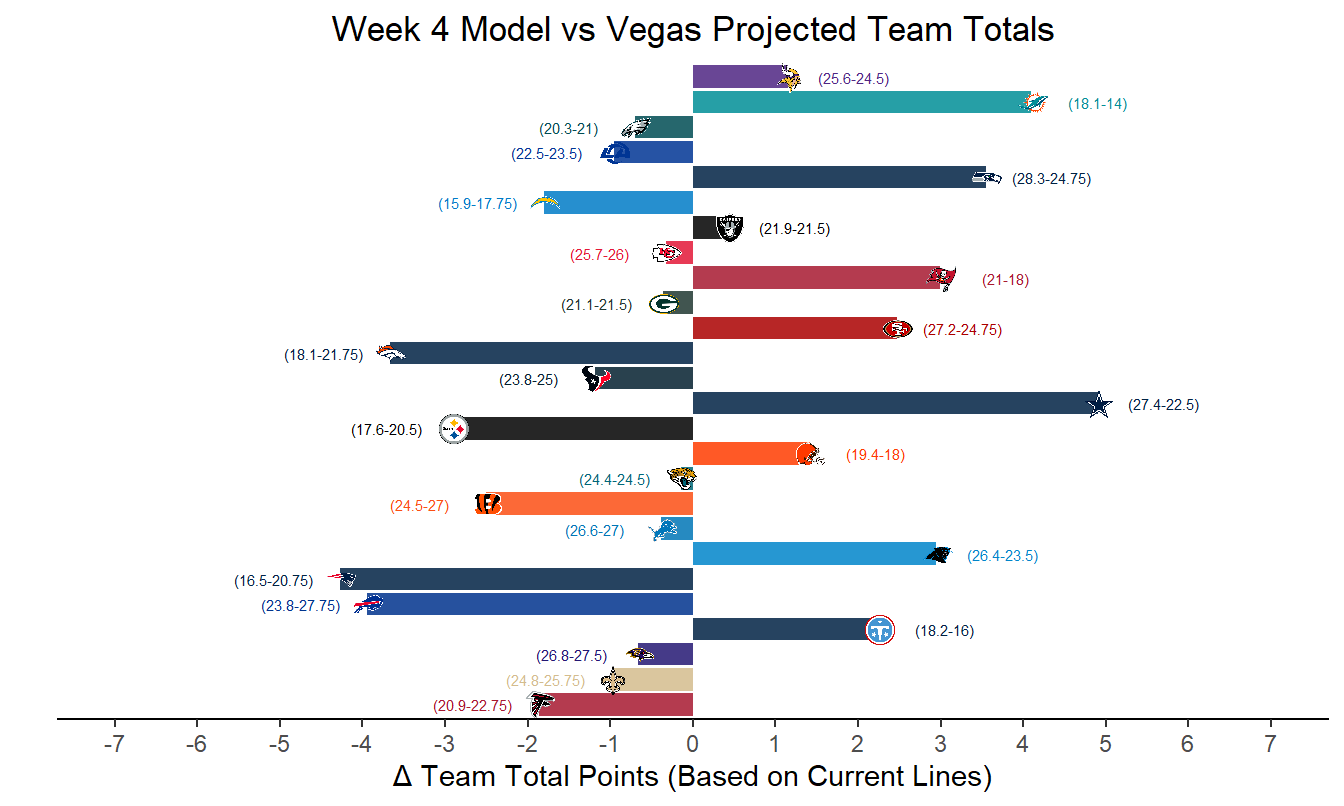
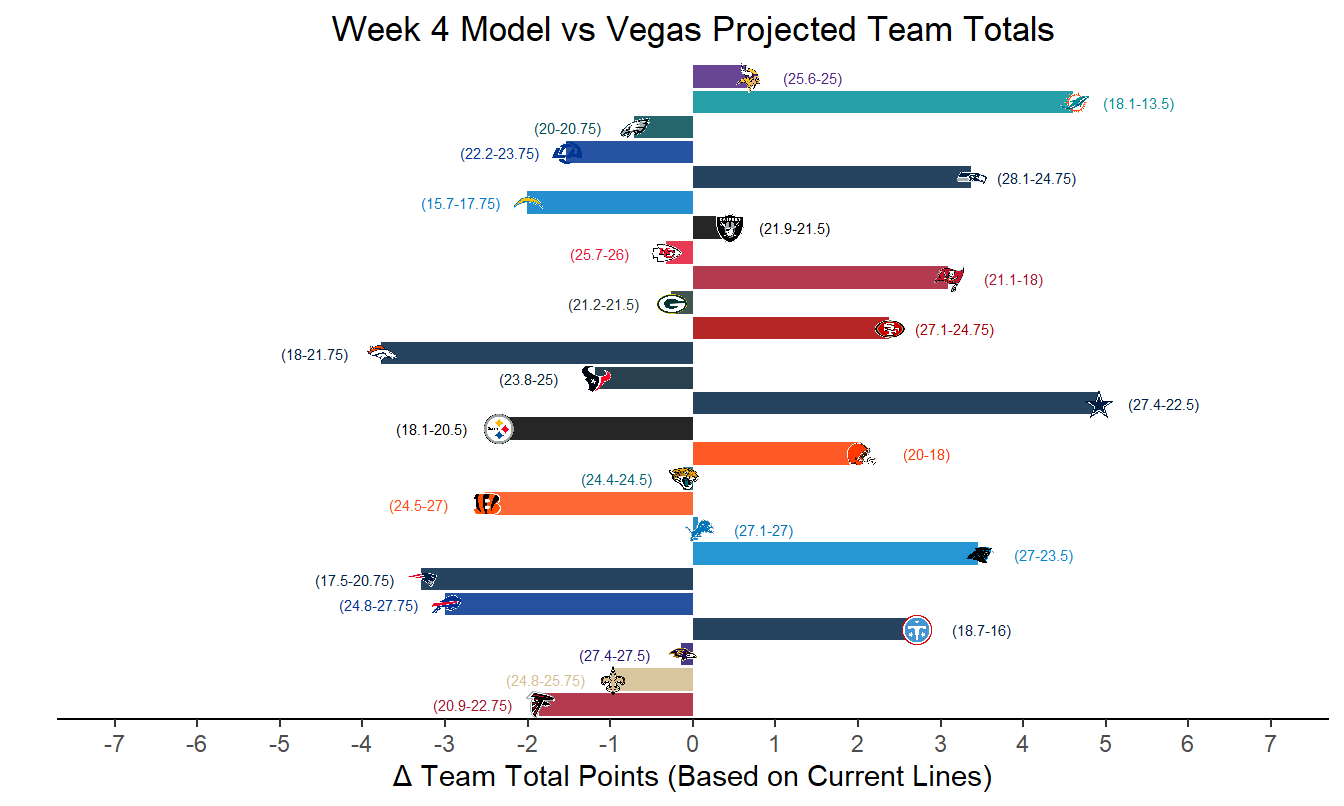
fix game_id matching issue

diff --git a/docs/mods.html b/docs/mods.html
@@ -148,7 +148,7 @@ Note
 </div>
 </div>
 <div class="callout-body-container callout-body">
-<p>Updated as of Tuesday, September 29, 2026 at 1:07:15 AM</p>
+<p>Updated as of Tuesday, September 29, 2026 at 11:42:50 AM</p>
 </div>
 </div>
 <section id="my-model-vs-vegas-based-on-opening-bet-lines" class="level2">
@@ -160,7 +160,7 @@ Note
 <div class="cell">
 <div class="cell-output-display">
 <div class="reactable html-widget html-fill-item" id="htmlwidget-541d656399a0360cd1b7" style="width:auto;height:auto;"></div>
-<script type="application/json" data-for="htmlwidget-541d656399a0360cd1b7">{"x":{"tag":{"name":"Reactable","attribs":{"data":{"game":["PIT @ CLE","NE @ BUF","DAL @ HOU","LA @ PHI","DEN @ SF","LAC @ SEA","DET @ CAR"],"total_line_label":[40.5,49.5,47.5,47.5,46.5,45.5,47.5],"total_line_current_label":[38.5,48.5,47.5,44.5,46.5,42.5,50.5],"total_mod_label":[37,40.3,51.2,42.8,45.3,44.2,53.1],"side_current_total":[null,"Under 48.5","Over 47.5",null,null,null,null],"stake_current_total":["NA",2.22,0.75,"NA","NA","NA","NA"],"spread_line_label":["CLE +2.5","BUF -3","HOU -2.5","PHI +1.5","SF -2.5","SEA -3","CAR +3"],"spread_line_current_label":["CLE +2.5","BUF -7","HOU -2.5","PHI +2.5","SF -3","SEA -7","CAR +3.5"],"spread_mod_label":["CLE -1.8","BUF -7.3","HOU +3.6","PHI +2.2","SF -9.1","SEA -12.3","CAR +0.2"],"side_current_spread":["CLE +2.5",null,"DAL +2.5","PHI +2.5","SF -3","LAC +7","CAR +3.5"],"stake_current_spread":[1.26,"NA",1.76,3,1.64,2.24,0.88]},"columns":[{"id":"game","name":"Game","type":"character","style":{"whiteSpace":"normal","lineHeight":"1.2","padding":"8px 6px","textAlign":"center"},"headerStyle":{"whiteSpace":"normal","textAlign":"center","lineHeight":"1.2","padding":"8px 6px","backgroundColor":"#2b2b2b","color":"#ffffff"},"minWidth":130,"width":130,"align":"center","sticky":"left"},{"id":"total_line_label","name":"Total Line Open","type":"numeric","style":{"whiteSpace":"normal","lineHeight":"1.2","padding":"8px 6px","textAlign":"center"},"headerStyle":{"whiteSpace":"normal","textAlign":"center","lineHeight":"1.2","padding":"8px 6px","backgroundColor":null,"color":null},"minWidth":120,"width":120,"align":"center"},{"id":"total_line_current_label","name":"Total Line Current","type":"numeric","style":{"whiteSpace":"normal","lineHeight":"1.2","padding":"8px 6px","textAlign":"center"},"headerStyle":{"whiteSpace":"normal","textAlign":"center","lineHeight":"1.2","padding":"8px 6px","backgroundColor":null,"color":null},"minWidth":120,"width":120,"align":"center"},{"id":"total_mod_label","name":"Predicted Total","type":"numeric","style":{"whiteSpace":"normal","lineHeight":"1.2","padding":"8px 6px","textAlign":"center"},"headerStyle":{"whiteSpace":"normal","textAlign":"center","lineHeight":"1.2","padding":"8px 6px","backgroundColor":null,"color":null},"minWidth":120,"width":120,"align":"center"},{"id":"side_current_total","name":"Total to Bet","type":"character","style":[{"whiteSpace":"normal","lineHeight":"1.2","padding":"8px 6px","textAlign":"center"},{"whiteSpace":"normal","lineHeight":"1.2","padding":"8px 6px","textAlign":"center","backgroundColor":"#d73027","color":"white","fontWeight":"bold"},{"whiteSpace":"normal","lineHeight":"1.2","padding":"8px 6px","textAlign":"center","backgroundColor":"#1a9850","color":"white","fontWeight":"bold"},{"whiteSpace":"normal","lineHeight":"1.2","padding":"8px 6px","textAlign":"center"},{"whiteSpace":"normal","lineHeight":"1.2","padding":"8px 6px","textAlign":"center"},{"whiteSpace":"normal","lineHeight":"1.2","padding":"8px 6px","textAlign":"center"},{"whiteSpace":"normal","lineHeight":"1.2","padding":"8px 6px","textAlign":"center"}],"headerStyle":{"whiteSpace":"normal","textAlign":"center","lineHeight":"1.2","padding":"8px 6px","backgroundColor":null,"color":null},"minWidth":140,"width":140,"align":"center"},{"id":"stake_current_total","name":"Stake for Total","type":"numeric","style":[{"whiteSpace":"normal","lineHeight":"1.2","padding":"8px 6px","textAlign":"center"},{"whiteSpace":"normal","lineHeight":"1.2","padding":"8px 6px","textAlign":"center","backgroundColor":"#1A9850","color":"white","fontWeight":"bold"},{"whiteSpace":"normal","lineHeight":"1.2","padding":"8px 6px","textAlign":"center","backgroundColor":"#D73027","color":"black","fontWeight":"bold"},{"whiteSpace":"normal","lineHeight":"1.2","padding":"8px 6px","textAlign":"center"},{"whiteSpace":"normal","lineHeight":"1.2","padding":"8px 6px","textAlign":"center"},{"whiteSpace":"normal","lineHeight":"1.2","padding":"8px 6px","textAlign":"center"},{"whiteSpace":"normal","lineHeight":"1.2","padding":"8px 6px","textAlign":"center"}],"headerStyle":{"whiteSpace":"normal","textAlign":"center","lineHeight":"1.2","padding":"8px 6px","backgroundColor":null,"color":null},"minWidth":120,"width":120,"align":"center"},{"id":"spread_line_label","name":"Spread Line Open","type":"character","style":{"whiteSpace":"normal","lineHeight":"1.2","padding":"8px 6px","textAlign":"center"},"headerStyle":{"whiteSpace":"normal","textAlign":"center","lineHeight":"1.2","padding":"8px 6px","backgroundColor":null,"color":null},"minWidth":120,"width":120,"align":"center"},{"id":"spread_line_current_label","name":"Spread Line Current","type":"character","style":{"whiteSpace":"normal","lineHeight":"1.2","padding":"8px 6px","textAlign":"center"},"headerStyle":{"whiteSpace":"normal","textAlign":"center","lineHeight":"1.2","padding":"8px 6px","backgroundColor":null,"color":null},"minWidth":120,"width":120,"align":"center"},{"id":"spread_mod_label","name":"Predicted Spread","type":"character","style":{"whiteSpace":"normal","lineHeight":"1.2","padding":"8px 6px","textAlign":"center"},"headerStyle":{"whiteSpace":"normal","textAlign":"center","lineHeight":"1.2","padding":"8px 6px","backgroundColor":null,"color":null},"minWidth":120,"width":120,"align":"center"},{"id":"side_current_spread","name":"Spread to Bet","type":"character","style":[{"whiteSpace":"normal","lineHeight":"1.2","padding":"8px 6px","textAlign":"center","backgroundColor":"#FF3C00","color":"white","fontWeight":"bold"},{"whiteSpace":"normal","lineHeight":"1.2","padding":"8px 6px","textAlign":"center"},{"whiteSpace":"normal","lineHeight":"1.2","padding":"8px 6px","textAlign":"center","backgroundColor":"#002244","color":"white","fontWeight":"bold"},{"whiteSpace":"normal","lineHeight":"1.2","padding":"8px 6px","textAlign":"center","backgroundColor":"#004C54","color":"white","fontWeight":"bold"},{"whiteSpace":"normal","lineHeight":"1.2","padding":"8px 6px","textAlign":"center","backgroundColor":"#AA0000","color":"white","fontWeight":"bold"},{"whiteSpace":"normal","lineHeight":"1.2","padding":"8px 6px","textAlign":"center","backgroundColor":"#007BC7","color":"white","fontWeight":"bold"},{"whiteSpace":"normal","lineHeight":"1.2","padding":"8px 6px","textAlign":"center","backgroundColor":"#0085CA","color":"white","fontWeight":"bold"}],"headerStyle":{"whiteSpace":"normal","textAlign":"center","lineHeight":"1.2","padding":"8px 6px","backgroundColor":null,"color":null},"minWidth":140,"width":140,"align":"center"},{"id":"stake_current_spread","name":"Stake for Spread","type":"numeric","style":[{"whiteSpace":"normal","lineHeight":"1.2","padding":"8px 6px","textAlign":"center","backgroundColor":"#EA7948","color":"black","fontWeight":"bold"},{"whiteSpace":"normal","lineHeight":"1.2","padding":"8px 6px","textAlign":"center"},{"whiteSpace":"normal","lineHeight":"1.2","padding":"8px 6px","textAlign":"center","backgroundColor":"#FBC579","color":"black","fontWeight":"bold"},{"whiteSpace":"normal","lineHeight":"1.2","padding":"8px 6px","textAlign":"center","backgroundColor":"#1A9850","color":"white","fontWeight":"bold"},{"whiteSpace":"normal","lineHeight":"1.2","padding":"8px 6px","textAlign":"center","backgroundColor":"#F8B36D","color":"black","fontWeight":"bold"},{"whiteSpace":"normal","lineHeight":"1.2","padding":"8px 6px","textAlign":"center","backgroundColor":"#C7CD7A","color":"black","fontWeight":"bold"},{"whiteSpace":"normal","lineHeight":"1.2","padding":"8px 6px","textAlign":"center","backgroundColor":"#D73027","color":"black","fontWeight":"bold"}],"headerStyle":{"whiteSpace":"normal","textAlign":"center","lineHeight":"1.2","padding":"8px 6px","backgroundColor":null,"color":null},"minWidth":120,"width":120,"align":"center"}],"filterable":true,"searchable":true,"defaultPageSize":400,"highlight":true,"className":"bets-table-dark","theme":{"style":{"overflow":"visible"}},"dataKey":"80845db7fc523c4223a0ec14c86f08e1"},"children":[]},"class":"reactR_markup"},"evals":[],"jsHooks":[]}</script>
+<script type="application/json" data-for="htmlwidget-541d656399a0360cd1b7">{"x":{"tag":{"name":"Reactable","attribs":{"data":{"game":["PIT @ CLE","NE @ BUF","DAL @ HOU","LA @ PHI","DEN @ SF","LAC @ SEA","DET @ CAR"],"total_line_label":[40.5,49.5,47.5,47.5,46.5,45.5,47.5],"total_line_current_label":[38.5,48.5,47.5,44.5,46.5,42.5,50.5],"total_mod_label":[38.2,42.2,51.2,42.3,45.1,43.9,54],"side_current_total":[null,"Under 48.5","Over 47.5","Under 44.5",null,null,"Over 50.5"],"stake_current_total":["NA",1.7,0.75,0.62,"NA","NA",0.76],"spread_line_label":["CLE +2.5","BUF -3","HOU -2.5","PHI +1.5","SF -2.5","SEA -3","CAR +3"],"spread_line_current_label":["CLE +2.5","BUF -7","HOU -2.5","PHI +3","SF -3","SEA -7","CAR +3.5"],"spread_mod_label":["CLE -1.9","BUF -7.3","HOU +3.6","PHI +2.2","SF -9.1","SEA -12.4","CAR +0.1"],"side_current_spread":["CLE +2.5",null,"DAL +2.5",null,"SF -3","SEA -7","CAR +3.5"],"stake_current_spread":[1.28,"NA",1.76,"NA",1.64,1.38,0.9]},"columns":[{"id":"game","name":"Game","type":"character","style":{"whiteSpace":"normal","lineHeight":"1.2","padding":"8px 6px","textAlign":"center"},"headerStyle":{"whiteSpace":"normal","textAlign":"center","lineHeight":"1.2","padding":"8px 6px","backgroundColor":"#2b2b2b","color":"#ffffff"},"minWidth":130,"width":130,"align":"center","sticky":"left"},{"id":"total_line_label","name":"Total Line Open","type":"numeric","style":{"whiteSpace":"normal","lineHeight":"1.2","padding":"8px 6px","textAlign":"center"},"headerStyle":{"whiteSpace":"normal","textAlign":"center","lineHeight":"1.2","padding":"8px 6px","backgroundColor":null,"color":null},"minWidth":120,"width":120,"align":"center"},{"id":"total_line_current_label","name":"Total Line Current","type":"numeric","style":{"whiteSpace":"normal","lineHeight":"1.2","padding":"8px 6px","textAlign":"center"},"headerStyle":{"whiteSpace":"normal","textAlign":"center","lineHeight":"1.2","padding":"8px 6px","backgroundColor":null,"color":null},"minWidth":120,"width":120,"align":"center"},{"id":"total_mod_label","name":"Predicted Total","type":"numeric","style":{"whiteSpace":"normal","lineHeight":"1.2","padding":"8px 6px","textAlign":"center"},"headerStyle":{"whiteSpace":"normal","textAlign":"center","lineHeight":"1.2","padding":"8px 6px","backgroundColor":null,"color":null},"minWidth":120,"width":120,"align":"center"},{"id":"side_current_total","name":"Total to Bet","type":"character","style":[{"whiteSpace":"normal","lineHeight":"1.2","padding":"8px 6px","textAlign":"center"},{"whiteSpace":"normal","lineHeight":"1.2","padding":"8px 6px","textAlign":"center","backgroundColor":"#d73027","color":"white","fontWeight":"bold"},{"whiteSpace":"normal","lineHeight":"1.2","padding":"8px 6px","textAlign":"center","backgroundColor":"#1a9850","color":"white","fontWeight":"bold"},{"whiteSpace":"normal","lineHeight":"1.2","padding":"8px 6px","textAlign":"center","backgroundColor":"#d73027","color":"white","fontWeight":"bold"},{"whiteSpace":"normal","lineHeight":"1.2","padding":"8px 6px","textAlign":"center"},{"whiteSpace":"normal","lineHeight":"1.2","padding":"8px 6px","textAlign":"center"},{"whiteSpace":"normal","lineHeight":"1.2","padding":"8px 6px","textAlign":"center","backgroundColor":"#1a9850","color":"white","fontWeight":"bold"}],"headerStyle":{"whiteSpace":"normal","textAlign":"center","lineHeight":"1.2","padding":"8px 6px","backgroundColor":null,"color":null},"minWidth":140,"width":140,"align":"center"},{"id":"stake_current_total","name":"Stake for Total","type":"numeric","style":[{"whiteSpace":"normal","lineHeight":"1.2","padding":"8px 6px","textAlign":"center"},{"whiteSpace":"normal","lineHeight":"1.2","padding":"8px 6px","textAlign":"center","backgroundColor":"#1A9850","color":"white","fontWeight":"bold"},{"whiteSpace":"normal","lineHeight":"1.2","padding":"8px 6px","textAlign":"center","backgroundColor":"#E4643D","color":"black","fontWeight":"bold"},{"whiteSpace":"normal","lineHeight":"1.2","padding":"8px 6px","textAlign":"center","backgroundColor":"#D73027","color":"black","fontWeight":"bold"},{"whiteSpace":"normal","lineHeight":"1.2","padding":"8px 6px","textAlign":"center"},{"whiteSpace":"normal","lineHeight":"1.2","padding":"8px 6px","textAlign":"center"},{"whiteSpace":"normal","lineHeight":"1.2","padding":"8px 6px","textAlign":"center","backgroundColor":"#E5673F","color":"black","fontWeight":"bold"}],"headerStyle":{"whiteSpace":"normal","textAlign":"center","lineHeight":"1.2","padding":"8px 6px","backgroundColor":null,"color":null},"minWidth":120,"width":120,"align":"center"},{"id":"spread_line_label","name":"Spread Line Open","type":"character","style":{"whiteSpace":"normal","lineHeight":"1.2","padding":"8px 6px","textAlign":"center"},"headerStyle":{"whiteSpace":"normal","textAlign":"center","lineHeight":"1.2","padding":"8px 6px","backgroundColor":null,"color":null},"minWidth":120,"width":120,"align":"center"},{"id":"spread_line_current_label","name":"Spread Line Current","type":"character","style":{"whiteSpace":"normal","lineHeight":"1.2","padding":"8px 6px","textAlign":"center"},"headerStyle":{"whiteSpace":"normal","textAlign":"center","lineHeight":"1.2","padding":"8px 6px","backgroundColor":null,"color":null},"minWidth":120,"width":120,"align":"center"},{"id":"spread_mod_label","name":"Predicted Spread","type":"character","style":{"whiteSpace":"normal","lineHeight":"1.2","padding":"8px 6px","textAlign":"center"},"headerStyle":{"whiteSpace":"normal","textAlign":"center","lineHeight":"1.2","padding":"8px 6px","backgroundColor":null,"color":null},"minWidth":120,"width":120,"align":"center"},{"id":"side_current_spread","name":"Spread to Bet","type":"character","style":[{"whiteSpace":"normal","lineHeight":"1.2","padding":"8px 6px","textAlign":"center","backgroundColor":"#FF3C00","color":"white","fontWeight":"bold"},{"whiteSpace":"normal","lineHeight":"1.2","padding":"8px 6px","textAlign":"center"},{"whiteSpace":"normal","lineHeight":"1.2","padding":"8px 6px","textAlign":"center","backgroundColor":"#002244","color":"white","fontWeight":"bold"},{"whiteSpace":"normal","lineHeight":"1.2","padding":"8px 6px","textAlign":"center"},{"whiteSpace":"normal","lineHeight":"1.2","padding":"8px 6px","textAlign":"center","backgroundColor":"#AA0000","color":"white","fontWeight":"bold"},{"whiteSpace":"normal","lineHeight":"1.2","padding":"8px 6px","textAlign":"center","backgroundColor":"#002244","color":"white","fontWeight":"bold"},{"whiteSpace":"normal","lineHeight":"1.2","padding":"8px 6px","textAlign":"center","backgroundColor":"#0085CA","color":"white","fontWeight":"bold"}],"headerStyle":{"whiteSpace":"normal","textAlign":"center","lineHeight":"1.2","padding":"8px 6px","backgroundColor":null,"color":null},"minWidth":140,"width":140,"align":"center"},{"id":"stake_current_spread","name":"Stake for Spread","type":"numeric","style":[{"whiteSpace":"normal","lineHeight":"1.2","padding":"8px 6px","textAlign":"center","backgroundColor":"#FCCE7E","color":"black","fontWeight":"bold"},{"whiteSpace":"normal","lineHeight":"1.2","padding":"8px 6px","textAlign":"center"},{"whiteSpace":"normal","lineHeight":"1.2","padding":"8px 6px","textAlign":"center","backgroundColor":"#1A9850","color":"white","fontWeight":"bold"},{"whiteSpace":"normal","lineHeight":"1.2","padding":"8px 6px","textAlign":"center"},{"whiteSpace":"normal","lineHeight":"1.2","padding":"8px 6px","textAlign":"center","backgroundColor":"#6EAD60","color":"white","fontWeight":"bold"},{"whiteSpace":"normal","lineHeight":"1.2","padding":"8px 6px","textAlign":"center","backgroundColor":"#E7D884","color":"black","fontWeight":"bold"},{"whiteSpace":"normal","lineHeight":"1.2","padding":"8px 6px","textAlign":"center","backgroundColor":"#D73027","color":"black","fontWeight":"bold"}],"headerStyle":{"whiteSpace":"normal","textAlign":"center","lineHeight":"1.2","padding":"8px 6px","backgroundColor":null,"color":null},"minWidth":120,"width":120,"align":"center"}],"filterable":true,"searchable":true,"defaultPageSize":400,"highlight":true,"className":"bets-table-dark","theme":{"style":{"overflow":"visible"}},"dataKey":"413b463e9a739d3dd8a153cce019630f"},"children":[]},"class":"reactR_markup"},"evals":[],"jsHooks":[]}</script>
 </div>
 </div>
 </div>

diff --git a/docs/fantasy.html b/docs/fantasy.html
@@ -149,7 +149,7 @@ Note
 <p>Updated as of Tuesday, September 01, 2026 at 2:49:43 PM</p>
 </div>
 </div>
-<!-- Tuesday, September 29, 2026 at 1:07:50 AM -->
+<!-- Tuesday, September 29, 2026 at 11:43:47 AM -->
 <section id="pre-season-ppr-rankings" class="level2">
 <h2 class="anchored" data-anchor-id="pre-season-ppr-rankings"><strong>Pre-Season PPR Rankings</strong></h2>
 <!-- Download Rankings Here: [2025 Fantasy Draft Rankings 0.5PPR](fpts_rank_all_fin_2025.xlsx) -->

diff --git a/docs/wins.html b/docs/wins.html
@@ -149,7 +149,7 @@ Note
 <p>Updated as of Tuesday, September 01, 2026 at 2:48:35 PM</p>
 </div>
 </div>
-<!-- Tuesday, September 29, 2026 at 1:08:26 AM -->
+<!-- Tuesday, September 29, 2026 at 11:44:28 AM -->
 <section id="season-win-totals" class="level2">
 <h2 class="anchored" data-anchor-id="season-win-totals"><strong>Season Win Totals</strong></h2>
 <div class="tabset-margin-container"></div><div class="panel-tabset">
